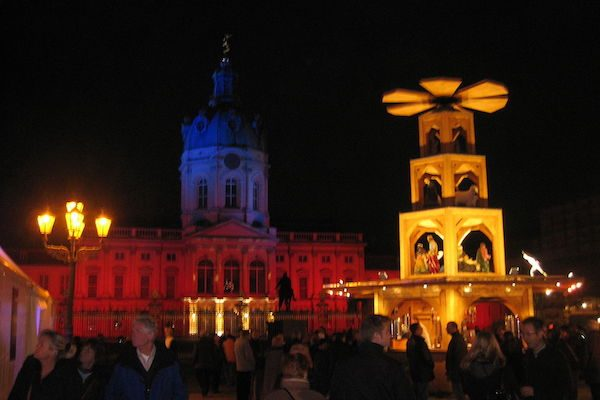
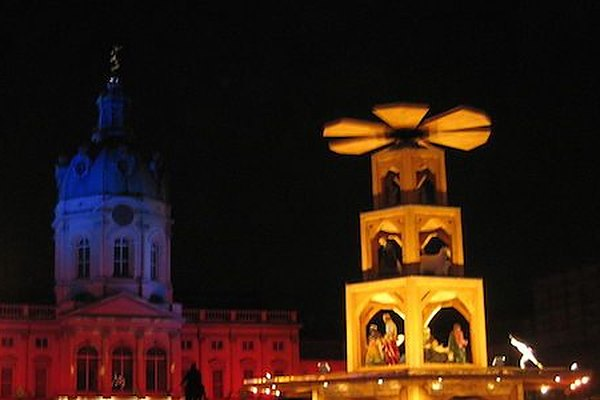
Fotos Mexikoplatz und Schloss Charlottenburg ohne Gesichter
Im Vordergrund beider Originale waren Gesichter erkennbar. Wie beim Foto
Sophienstraße zeigt die App jetzt nur einen Ausschnitt oberhalb der Köpfe.
build_data.py erkennt die Originale an Größe und Prüfsumme, schneidet sie zu
und lässt schon zugeschnittene Fotos unverändert.

Claude-Session: https://claude.ai/code/session_01VuQKr1ihwRpaL5VaJsbpae

diff --git a/tools/build_data.py b/tools/build_data.py
@@ -306,8 +306,9 @@ HINWEIS = {
  '158': 'Um 11 Uhr Gottesdienst in der Dorfkirche Marzahn',
 }
 
-# Foto 44 (Sophienstraße): Im Vordergrund des Originals sind Gesichter erkennbar. Seit 27.11.2026
-# zeigt die App deshalb nur einen Ausschnitt oberhalb der Köpfe, siehe AUSSCHNITT.
+# Fotos 5 (Mexikoplatz), 44 (Sophienstraße) und 68 (Schloss Charlottenburg): Im Vordergrund der
+# Originale sind Gesichter erkennbar. Die App zeigt deshalb nur einen Ausschnitt oberhalb der Köpfe,
+# bei 44 seit 27.11.2026, bei 5 und 68 seit 28.11.2026, siehe AUSSCHNITT.
 BILD = {
  '11': ('Leonhard Lenz', 'CC0 1.0', 'https://creativecommons.org/publicdomain/zero/1.0/deed.de'),
  '44': ('Leonhard Lenz', 'CC0 1.0', 'https://creativecommons.org/publicdomain/zero/1.0/deed.de'),
@@ -432,16 +433,24 @@ json.dump(data, open(dst / 'markets.json', 'w', encoding='utf-8'), ensure_ascii=
 # Bilder kopieren und require-Tabelle schreiben
 img_dst = APP / 'assets/markets'; img_dst.mkdir(parents=True, exist_ok=True)
 lines = ['// Automatisch erzeugt von build_data.py', 'export const IMAGES: Record<string, number> = {']
-# Ausschnitt (links, oben, rechts, unten) in Pixeln des 900 × 600 großen Originals,
-# danach auf 600 × 400 vergrößert und leicht nachgeschärft
-AUSSCHNITT = {'44': (470, 0, 896, 284)}
+# Ausschnitt (links, oben, rechts, unten) in Pixeln des Originals, danach auf 600 × 400 gebracht
+# und leicht nachgeschärft. Geschnitten wird nur, solange die Datei noch das Original ist, erkannt an
+# Größe und, wo angegeben, Prüfsumme (MD5). Sonst liegt der Ausschnitt schon vor und wird nur kopiert.
+AUSSCHNITT = {
+ '5': ((640, 426), '9b4cdffb106983a88916e239a5ff6af7', (200, 10, 600, 277)),
+ '44': ((900, 600), None, (470, 0, 896, 284)),
+ '68': ((600, 400), 'd11cf42ac438f2ff051d140cf8f8ec52', (140, 0, 590, 300)),
+}
 for k in sorted(BILD, key=int):
     quelle, ziel = IMG_SRC / f'{k}.jpg', img_dst / f'{k}.jpg'
     if k in AUSSCHNITT:
+        import hashlib
         from PIL import Image, ImageFilter
+        groesse, pruefsumme, box = AUSSCHNITT[k]
         im = Image.open(quelle)
-        if im.size == (900, 600):  # Original, sonst ist das Foto schon zugeschnitten
-            im = im.convert('RGB').crop(AUSSCHNITT[k]).resize((600, 400), Image.LANCZOS)
+        original = im.size == groesse and (pruefsumme is None or hashlib.md5(quelle.read_bytes()).hexdigest() == pruefsumme)
+        if original:
+            im = im.convert('RGB').crop(box).resize((600, 400), Image.LANCZOS)
             im = im.filter(ImageFilter.UnsharpMask(radius=1.2, percent=60, threshold=2))
             im.save(ziel, quality=86, optimize=True, progressive=True)
         else:

diff --git a/assets/markets/BILDNACHWEIS.md b/assets/markets/BILDNACHWEIS.md
@@ -15,4 +15,4 @@ Alle Fotos stammen von Wikimedia Commons. Sie wurden zugeschnitten und verkleine
 | 217.jpg | Lucia Weihnachtsmarkt in der Kulturbrauerei | Auto1234 | [CC BY-SA 3.0](https://creativecommons.org/licenses/by-sa/3.0/deed.de) |
 | 242.jpg | Spandauer Weihnachtsmarkt in der Altstadt | Colin Smith | [CC BY-SA 2.0](https://creativecommons.org/licenses/by-sa/2.0/deed.de) |
 
-Von 44.jpg zeigt die App nur den Ausschnitt oberhalb der Köpfe, weil im Vordergrund des Originals Gesichter erkennbar sind. Der Ausschnitt steht in `tools/build_data.py` unter `AUSSCHNITT`.
+Von 5.jpg, 44.jpg und 68.jpg zeigt die App nur einen Ausschnitt oberhalb der Köpfe, weil im Vordergrund der Originale Gesichter erkennbar sind. Die Ausschnitte stehen in `tools/build_data.py` unter `AUSSCHNITT`.
